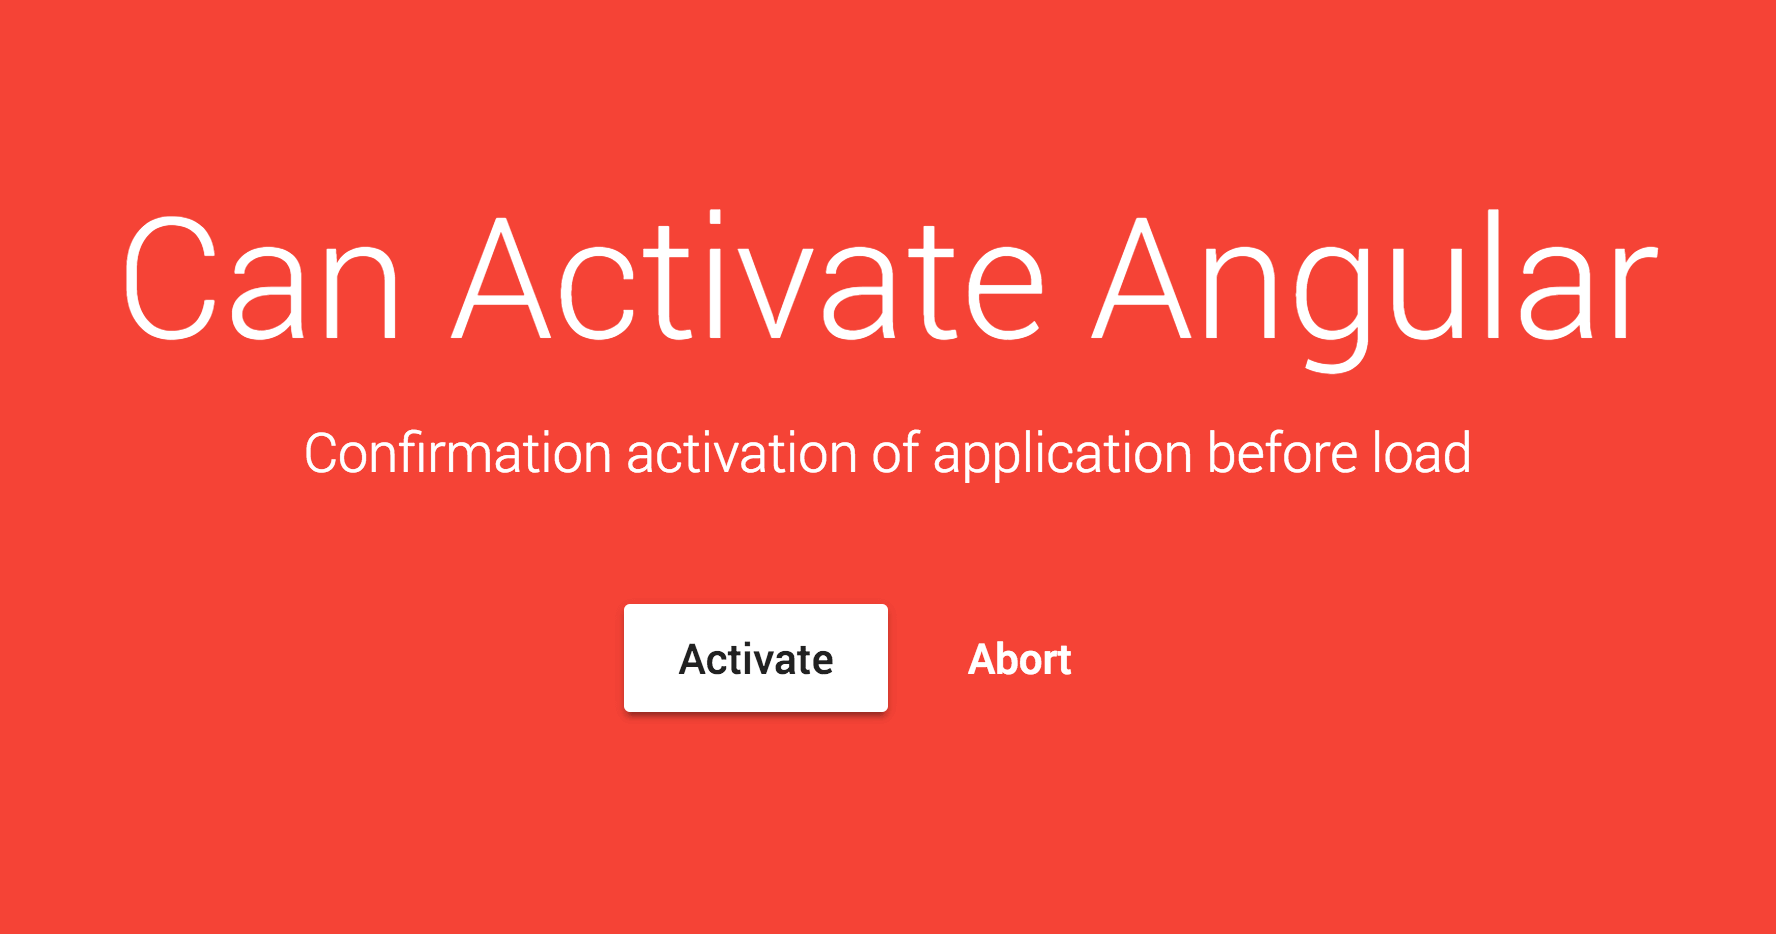
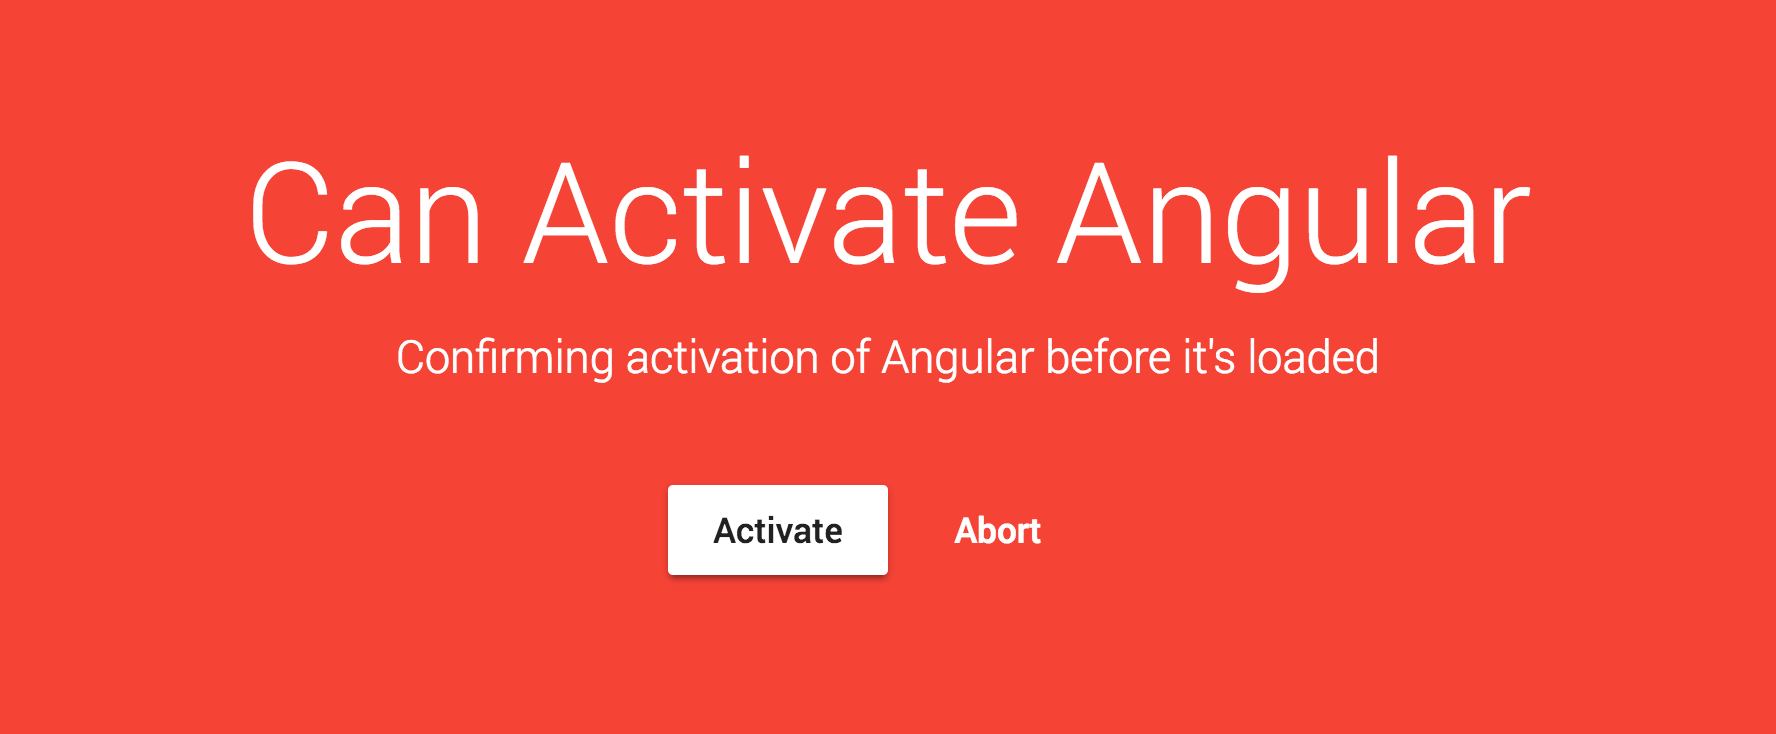
Detach and destroy component, typefixes

diff --git a/projects/ngx-can-activate-app/src/lib/ngx-can-activate-app.module.ts b/projects/ngx-can-activate-app/src/lib/ngx-can-activate-app.module.ts
@@ -1,14 +1,15 @@
 import { ANALYZE_FOR_ENTRY_COMPONENTS, APP_INITIALIZER, ApplicationRef, ComponentFactory, ComponentFactoryResolver, ComponentRef, Injector, ModuleWithProviders, NgModule } from '@angular/core';
-import { NGX_CAN_ACTIVATE_APP_CONFIG, NgxActivateAppInitializer, NgxCanActivateAppConfig, NgxCanActivateAppNodeConfig, NgxCanActivateAppSelectorConfig } from './ngx-can-activate-app.config';
+import { first } from 'rxjs/operators';
+import { NGX_CAN_ACTIVATE_APP_CONFIG, NgxCanActivateAppConfig, NgxCanActivateAppNodeConfig, NgxCanActivateAppSelectorConfig } from './ngx-can-activate-app.config';
 import { NgxCanActivateApp } from './ngx-can-activate-app.service';
 
-export function canActivateAppModule(
-    activate: NgxActivateAppInitializer,
+export function canActivateAppFactory(
+    canActivateApp: NgxCanActivateApp,
     config: NgxCanActivateAppConfig,
     componentFactoryResolver: ComponentFactoryResolver,
     injector: Injector
 ): () => Promise<any> {
-    return () => new Promise<any>((resolve, reject) => {
+    return () => new Promise<any>((resolve, reject): void => {
             const factory: ComponentFactory<any> =
                 componentFactoryResolver.resolveComponentFactory(config.component);
 
@@ -20,9 +21,15 @@ export function canActivateAppModule(
             const componentRef: ComponentRef<any> =
                 factory.create(injector, [], rootSelectorOrNode);
 
-            injector.get(ApplicationRef).attachView(componentRef.hostView);
+            const applicationRef: ApplicationRef = injector.get(ApplicationRef);
+            applicationRef.attachView(componentRef.hostView);
 
-            activate.subscribe((event) => event.activated ? resolve() : reject(event.reason));
+            canActivateApp.getActivate().pipe(first()).subscribe((event) => {
+                event.activated ? resolve() : reject(event.reason);
+
+                applicationRef.detachView(componentRef.hostView);
+                componentRef.destroy();
+            });
         }
     );
 }
@@ -33,13 +40,13 @@ export class NgxCanActivateAppModule {
         return {
             ngModule: NgxCanActivateAppModule,
             providers: [
-                NgxActivateAppInitializer, NgxCanActivateApp,
-                { provide: ANALYZE_FOR_ENTRY_COMPONENTS, useValue: [ config.component ], multi: true },
+                NgxCanActivateApp,
+                { provide: ANALYZE_FOR_ENTRY_COMPONENTS, useValue: config.component, multi: true },
                 { provide: NGX_CAN_ACTIVATE_APP_CONFIG, useValue: config },
                 {
-                    provide: APP_INITIALIZER, useFactory: canActivateAppModule,
+                    provide: APP_INITIALIZER, useFactory: canActivateAppFactory,
                     deps: [
-                        NgxActivateAppInitializer, NGX_CAN_ACTIVATE_APP_CONFIG,
+                        NgxCanActivateApp, NGX_CAN_ACTIVATE_APP_CONFIG,
                         ComponentFactoryResolver, Injector
                     ], multi: true
                 }

diff --git a/src/app/components/example/example.component.ts b/src/app/components/example/example.component.ts
@@ -9,14 +9,14 @@ interface Example {
 
 const EXAMPLES: Example[] = [
     {
-        title: 'Install package ngx-can-activate-app',
+        title: 'Install ngx-can-activate-app',
         language: 'bash', code: `
 npm i -s ngx-can-activate-app
 `
     },
     {
-        title: 'Create pre-activation component',
-        description: 'The component will be displayed before the application is activated',
+        title: 'Create a component',
+        description: 'It will be displayed until your application has finished activating.',
         language: 'typescript', code: `
 import { NgxCanActivateApp } from 'ngx-can-activate-app';
 
@@ -32,8 +32,8 @@ export class ConfirmationComponent {
 `
     },
     {
-        title: 'Declare component',
-        description: 'Add your component to declarations',
+        title: 'Declare the component',
+        description: 'Add it to declarations.',
         language: 'typescript', code: `
 @NgModule({
   declarations: [ AppComponent, ConfirmationComponent ],
@@ -43,8 +43,8 @@ export class AppModule {}
 `
     },
     {
-        title: 'Import module and setup component',
-        description: 'You first must initialize the module with the component',
+        title: 'Import NgxCanActivateAppModule',
+        description: `Then add your component to the module's initialization.`,
         language: 'typescript', code: `
 import { NgxCanActivateAppModule } from 'ngx-can-activate-app';
 
@@ -61,8 +61,8 @@ export class AppModule {}
 `
     },
     {
-        title: 'Setup selector to index.html',
-        description: 'Add selector of the component to index.html file',
+        title: 'Specify a selector in index.html',
+        description: 'Add the selector of your component to index.html.',
         language: 'haml', code: `
 <!doctype html>
 <html lang="en">

diff --git a/projects/ngx-can-activate-app/src/lib/ngx-can-activate-app.service.ts b/projects/ngx-can-activate-app/src/lib/ngx-can-activate-app.service.ts
@@ -1,16 +1,29 @@
 import { Injectable } from '@angular/core';
-import { NgxActivateAppInitializer } from './ngx-can-activate-app.config';
+import { AsyncSubject, Observable } from 'rxjs';
+
+export interface ActivateEvent {
+    activated: boolean;
+    reason?: string;
+}
 
 @Injectable()
 export class NgxCanActivateApp {
 
-    constructor(private activate$: NgxActivateAppInitializer) {}
+    private activate$: AsyncSubject<ActivateEvent> = new AsyncSubject<ActivateEvent>();
 
-    activate() { this.emit({ activated: true }); }
+    activate(): void {
+        this.emit({ activated: true });
+    }
 
-    abort(reason: string) { this.emit({ activated: false, reason }); }
+    abort(reason: string): void {
+        this.emit({ activated: false, reason });
+    }
 
-    private emit(event: any) {
+    getActivate(): Observable<ActivateEvent> {
+        return this.activate$.asObservable();
+    }
+
+    private emit(event: ActivateEvent) {
         this.activate$.next(event);
         this.activate$.complete();
     }

diff --git a/src/app/confirmation/confirmation.component.html b/src/app/confirmation/confirmation.component.html
@@ -3,7 +3,7 @@
         <h1 class="mat-h1 full-size">Can Activate Angular</h1>
     </mat-toolbar-row>
     <mat-toolbar-row>
-        <h2 class="mat-h2 full-size">Confirmation activation of application before load</h2>
+        <h2 class="mat-h2 full-size">Confirming activation of Angular before it's loaded</h2>
     </mat-toolbar-row>
     <mat-toolbar-row>
         <div class="full-size">

diff --git a/src/app/containers/home/home.component.html b/src/app/containers/home/home.component.html
@@ -3,7 +3,7 @@
         <h1 class="mat-h1 full-size">Angular Activated!</h1>
     </mat-toolbar-row>
     <mat-toolbar-row>
-        <h2 class="mat-h2 full-size">Confirmation activation of application before load</h2>
+        <h2 class="mat-h2 full-size">Confirming activation of Angular before it's loaded</h2>
     </mat-toolbar-row>
     <mat-toolbar-row>
         <div class="full-size">

diff --git a/projects/ngx-can-activate-app/src/lib/ngx-can-activate-app.config.ts b/projects/ngx-can-activate-app/src/lib/ngx-can-activate-app.config.ts
@@ -13,9 +13,6 @@ export interface NgxCanActivateAppNodeConfig extends NgxCanActivateAppDefaultSel
     node: any;
 }
 
-@Injectable()
-export class NgxActivateAppInitializer extends AsyncSubject<{ activated: boolean; reason?: string }> {}
-
 export type NgxCanActivateAppConfig =
     NgxCanActivateAppDefaultSelectorConfig
     | NgxCanActivateAppSelectorConfig

diff --git a/README.md b/README.md
@@ -10,9 +10,9 @@ npm i -s ngx-can-activate-app
 ```
 
 
-## 2. Create pre-activation component
+## 2. Create component
 
-The component will be displayed before the application is activated
+It will be displayed until your application has finished activating.
 
 ```typescript
 import { NgxCanActivateApp } from 'ngx-can-activate-app';
@@ -28,9 +28,9 @@ export class ConfirmationComponent {
 }
 ```
 
-## 3. Declare component
+## 3. Declare the component
 
-Add your component to declarations
+Add it to declarations.
 
 ```typescript
 @NgModule({
@@ -40,9 +40,9 @@ Add your component to declarations
 export class AppModule {}
 ```
 
-## 4. Import module and setup component
+## 4. Import NgxCanActivateAppModule
 
-You first must initialize the module with the component
+Then add your component to the module's initialization.
 
 ```typescript
 import { NgxCanActivateAppModule } from 'ngx-can-activate-app';
@@ -59,9 +59,9 @@ import { NgxCanActivateAppModule } from 'ngx-can-activate-app';
 export class AppModule {}
 ```
 
-## 5. Setup selector to index.html
+## 5. Specify a selector in index.html
 
-Add selector of the component to index.html file
+Add the selector of your component to index.html.
 
 ```html
 <!doctype html>

diff --git a/projects/ngx-can-activate-app/README.md b/projects/ngx-can-activate-app/README.md
@@ -10,9 +10,9 @@ npm i -s ngx-can-activate-app
 ```
 
 
-## 2. Create pre-activation component
+## 2. Create component
 
-The component will be displayed before the application is activated
+It will be displayed until your application has finished activating.
 
 ```typescript
 import { NgxCanActivateApp } from 'ngx-can-activate-app';
@@ -28,9 +28,9 @@ export class ConfirmationComponent {
 }
 ```
 
-## 3. Declare component
+## 3. Declare the component
 
-Add your component to declarations
+Add it to declarations.
 
 ```typescript
 @NgModule({
@@ -40,9 +40,9 @@ Add your component to declarations
 export class AppModule {}
 ```
 
-## 4. Import module and setup component
+## 4. Import NgxCanActivateAppModule
 
-You first must initialize the module with the component
+Then add your component to the module's initialization.
 
 ```typescript
 import { NgxCanActivateAppModule } from 'ngx-can-activate-app';
@@ -59,9 +59,9 @@ import { NgxCanActivateAppModule } from 'ngx-can-activate-app';
 export class AppModule {}
 ```
 
-## 5. Setup selector to index.html
+## 5. Specify a selector in index.html
 
-Add selector of the component to index.html file
+Add the selector of your component to index.html.
 
 ```html
 <!doctype html>
